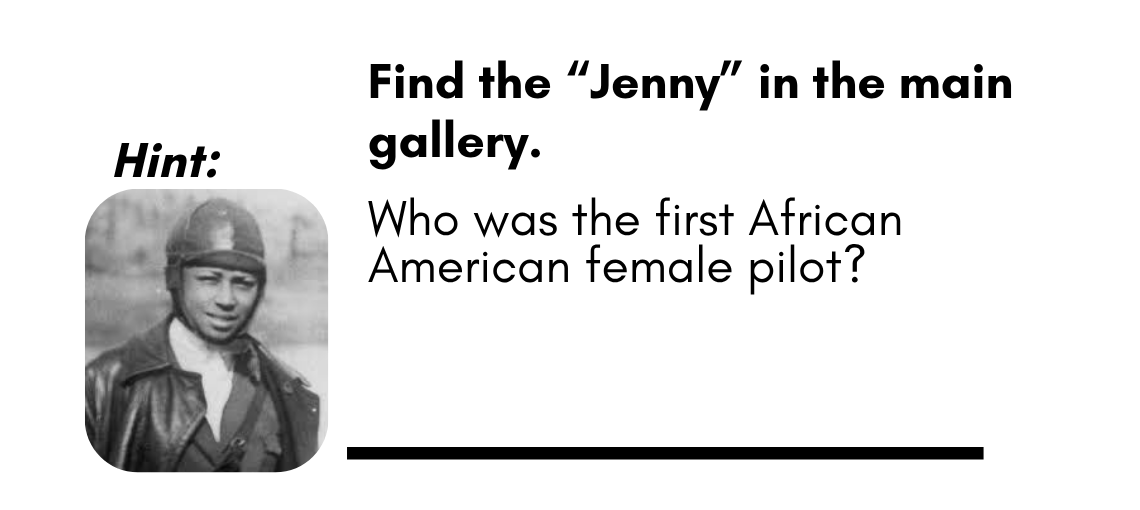
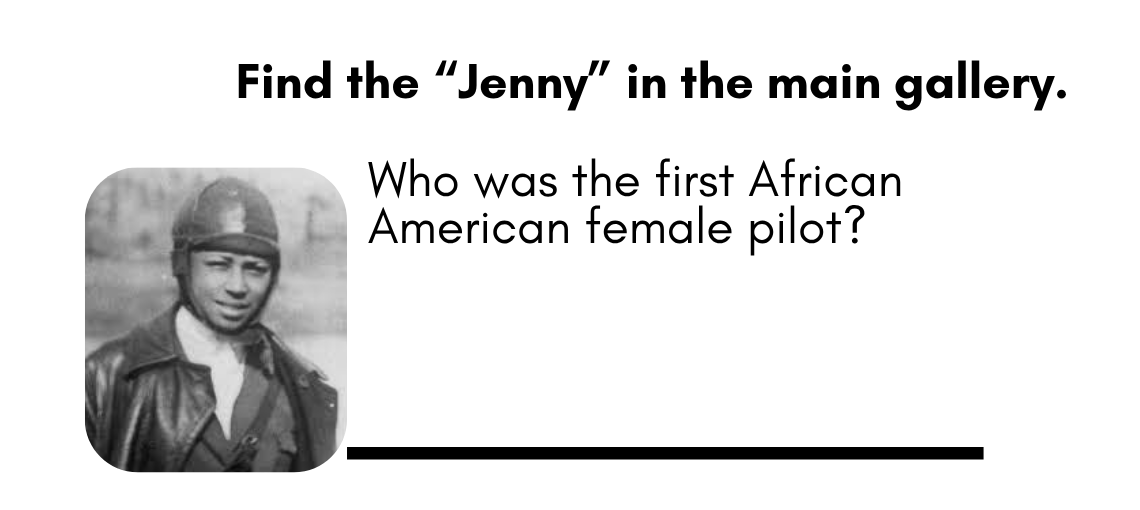
Added 7 new questions and 1 location

Changed region(s): [[0.0614, 0.2353, 0.7982, 0.9412], [0.1842, 0.1176, 0.9518, 0.2353]]

diff --git a/ADDING-QUESTIONS.md b/ADDING-QUESTIONS.md
@@ -67,10 +67,7 @@ brace**, then paste and fill in your own block before the final `]`:
 - `category` — one of the categories listed at the top of the same file
   (currently: `history`, `planes`, `people`, `science`).
 - `locationId` — where in the museum the answer is found; this controls the
-  star on the hint map. Valid names are in `data/locations.json` (currently:
-  `lobby`, `front-desk`, `gift-shop`, `main-gallery-west`, `main-gallery-center`,
-  `main-gallery-east`, `gallery-1`, `flight-school`, `gallery-2`,
-  `special-exhibition`).
+  star on the hint map. Valid names are in `data/locations.json`
 - `answer` — for museum records and the builder; the printed answer key uses
   your `q10-a.png` image.
 